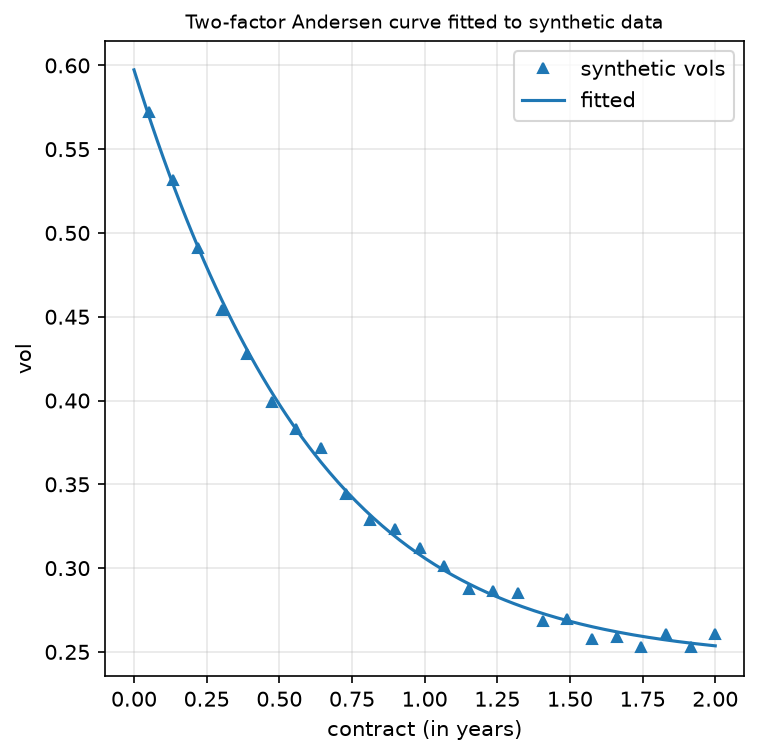
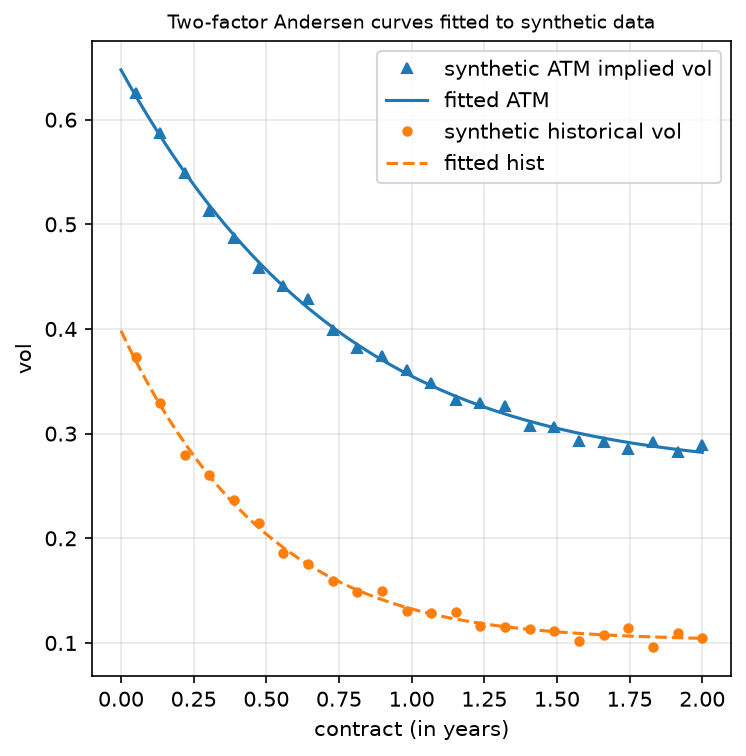
Show synthetic ATM implied and historical vol curves in the demo

diff --git a/TwoFactorAndersenRiskFactorModel/Python/demo_synthetic_fit.py b/TwoFactorAndersenRiskFactorModel/Python/demo_synthetic_fit.py
@@ -1,6 +1,9 @@
 """Demo: fit the two-factor Andersen vol curve to SYNTHETIC data and plot it.
 
-No market data is used: the "observed" vols are generated from made-up parameters plus noise.
+Two made-up curves are generated, each from its own parameters plus noise:
+  - synthetic ATM implied vols (high, steeply decaying), and
+  - synthetic historical vols (lower, as implied vols usually sit above realised vols).
+No market data is used.
 Usage:  python Python/demo_synthetic_fit.py      (writes Documentation/demo_fit.png)
 """
 from pathlib import Path
@@ -15,24 +18,37 @@ from andersen_model import AndersenParams, calibrate, sigma12
 
 OUT = Path(__file__).resolve().parent.parent / "Documentation" / "demo_fit.png"
 
+TRUE_ATM = AndersenParams(sig0=0.65, sig_inf=0.27, kappa=1.0, rho_inf=0.5)
+TRUE_HIST = AndersenParams(sig0=0.40, sig_inf=0.10, kappa=1.6, rho_inf=0.4)
+
+
+def synthetic_curve(true, T, rng, noise=0.006):
+    return sigma12(T, true) + rng.normal(0, noise, T.size)
+
 
 def main(seed=7):
     rng = np.random.default_rng(seed)
-    true = AndersenParams(sig0=0.60, sig_inf=0.25, kappa=1.2, rho_inf=0.5)
     T = np.linspace(0.05, 2.0, 24)                      # 24 monthly tenors, in years
-    obs = sigma12(T, true) + rng.normal(0, 0.006, T.size)
+    atm = synthetic_curve(TRUE_ATM, T, rng)
+    hist = synthetic_curve(TRUE_HIST, T, rng)
 
-    fit, rmse = calibrate(T, obs, rho_inf=true.rho_inf)
-    print(f"true : sig0={true.sig0:.3f} sig_inf={true.sig_inf:.3f} kappa={true.kappa:.3f}")
-    print(f"fit  : sig0={fit.sig0:.3f} sig_inf={fit.sig_inf:.3f} kappa={fit.kappa:.3f}  rmse={rmse:.4f}")
+    fit_atm, rmse_atm = calibrate(T, atm, rho_inf=TRUE_ATM.rho_inf)
+    fit_hist, rmse_hist = calibrate(T, hist, rho_inf=TRUE_HIST.rho_inf)
+    for name, true, fit, rmse in [("ATM ", TRUE_ATM, fit_atm, rmse_atm), ("hist", TRUE_HIST, fit_hist, rmse_hist)]:
+        print(f"{name} true: sig0={true.sig0:.3f} sig_inf={true.sig_inf:.3f} kappa={true.kappa:.3f}")
+        print(f"{name} fit : sig0={fit.sig0:.3f} sig_inf={fit.sig_inf:.3f} kappa={fit.kappa:.3f}  rmse={rmse:.4f}")
 
     grid = np.linspace(0, 2.0, 200)
+    assert np.all(sigma12(grid, fit_atm) > sigma12(grid, fit_hist)), "implied should sit above historical"
+
     fig, ax = plt.subplots(figsize=(5.5, 5.5))
-    ax.plot(T, obs, "^", ms=5, color="tab:blue", label="synthetic vols")
-    ax.plot(grid, sigma12(grid, fit), "-", color="tab:blue", label="fitted")
+    ax.plot(T, atm, "^", ms=5, color="tab:blue", label="synthetic ATM implied vol")
+    ax.plot(grid, sigma12(grid, fit_atm), "-", color="tab:blue", label="fitted ATM")
+    ax.plot(T, hist, "o", ms=4, color="tab:orange", label="synthetic historical vol")
+    ax.plot(grid, sigma12(grid, fit_hist), "--", color="tab:orange", label="fitted hist")
     ax.set_xlabel("contract (in years)")
     ax.set_ylabel("vol")
-    ax.set_title("Two-factor Andersen curve fitted to synthetic data", fontsize=9)
+    ax.set_title("Two-factor Andersen curves fitted to synthetic data", fontsize=9)
     ax.grid(alpha=0.3)
     ax.legend()
     OUT.parent.mkdir(exist_ok=True)

diff --git a/TwoFactorAndersenRiskFactorModel/README.md b/TwoFactorAndersenRiskFactorModel/README.md
@@ -12,7 +12,7 @@ implementation (market-data pipeline, calibration for WTI, Brent and Henry Hub, 
 |---|---|
 | `Documentation/two_factor_andersen_model_page1.pdf` | First page of the model notes: model definition and parameter meaning |
 | `Python/andersen_model.py` | Model vol curve and a simple least-squares fit |
-| `Python/demo_synthetic_fit.py` | Fits the curve to synthetic data and writes `Documentation/demo_fit.png` |
+| `Python/demo_synthetic_fit.py` | Fits synthetic ATM implied and historical vol curves (implied above historical) and writes `Documentation/demo_fit.png` |
 | `Python/tests/test_andersen_model.py` | Offline tests of the curve limits and parameter recovery |
 
 ## Run
